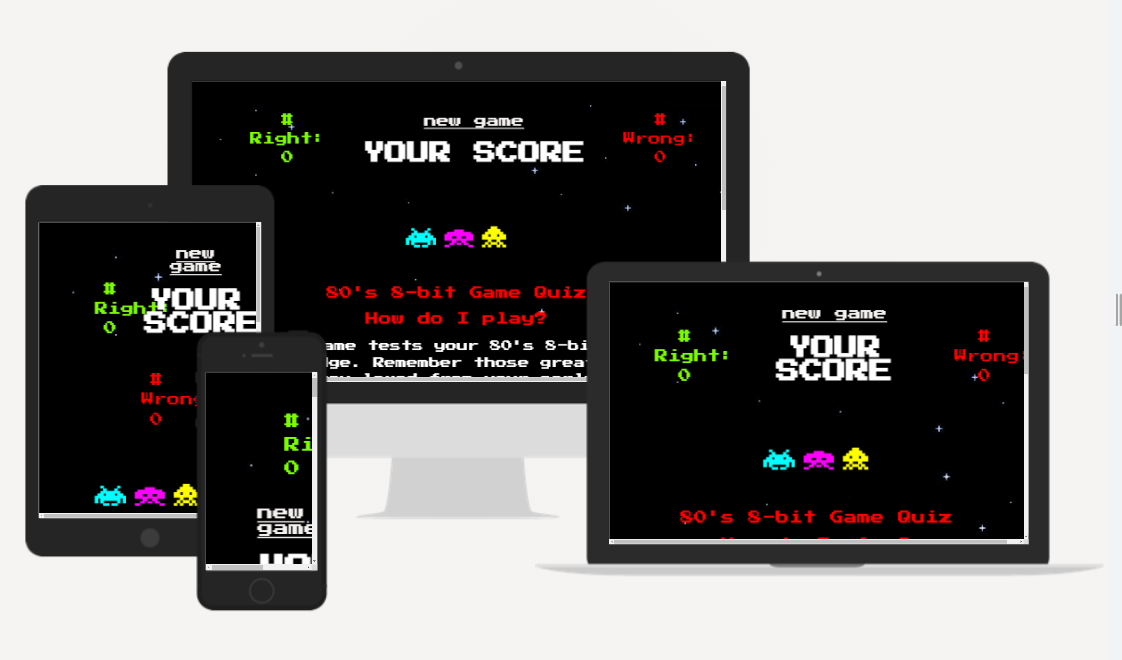
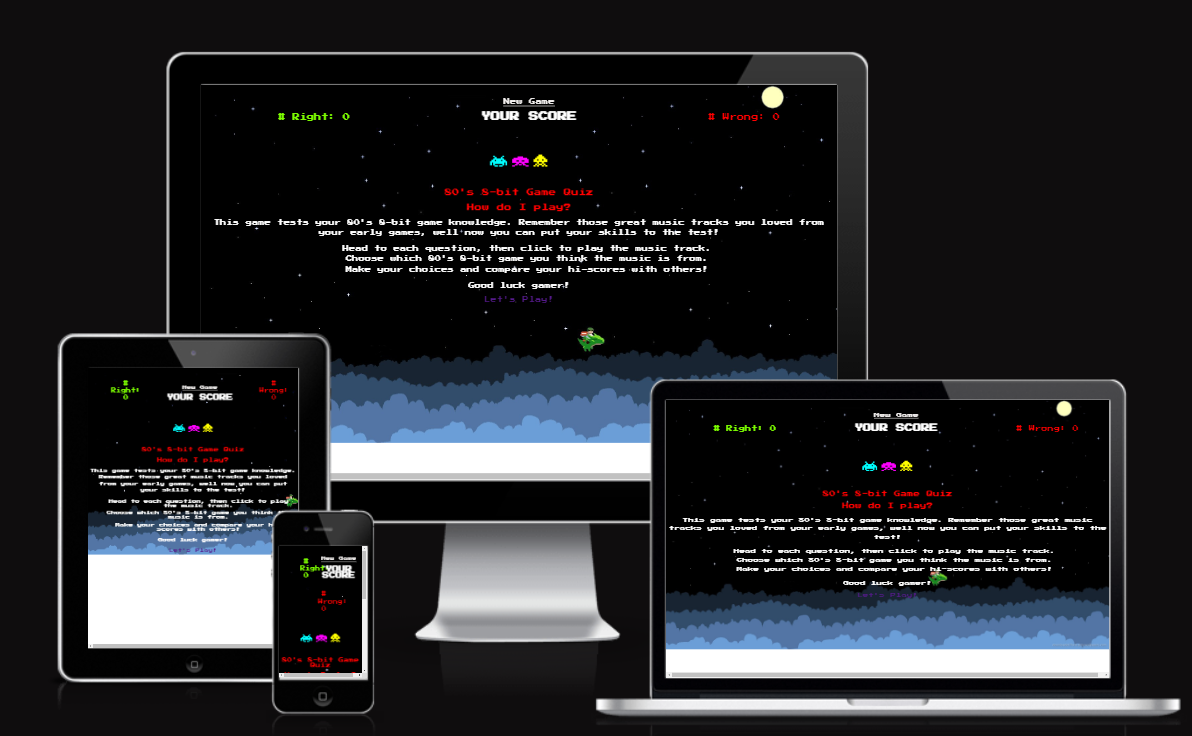
made site more responsive

diff --git a/assets/css/styles.css b/assets/css/styles.css
@@ -14,10 +14,12 @@ body {
 h1,
 h2 {
     color: white;
+    font-size: 1.5em;
 }
 
 p {
     line-height: 1.5;
+    font-size: 1em;
 }
 
 ul {
@@ -85,7 +87,8 @@ li {
 
 .new {
     color: rgb(244, 241, 240);
-    font-size: 18px;
+    font-size: 1em;
+    text-transform: capitalize;
 }
 
 .top {
@@ -97,7 +100,7 @@ li {
 }
 
 .submit {
-    font-size: 24px;
+    font-size: 20px;
     font-family: 'Press Start 2P', cursive;
     color: red;
     background: none;
@@ -137,8 +140,7 @@ li {
 
 .container {
     margin: auto;
-    width: 90%;
-    height: 800px;
+    padding: 0px;
 }
 
 .play {
@@ -153,7 +155,7 @@ li {
 .quizrow {
     margin: auto;
     width: 95%;
-    padding: 15px;
+    padding: 12px;
 }
 
 .audio {
